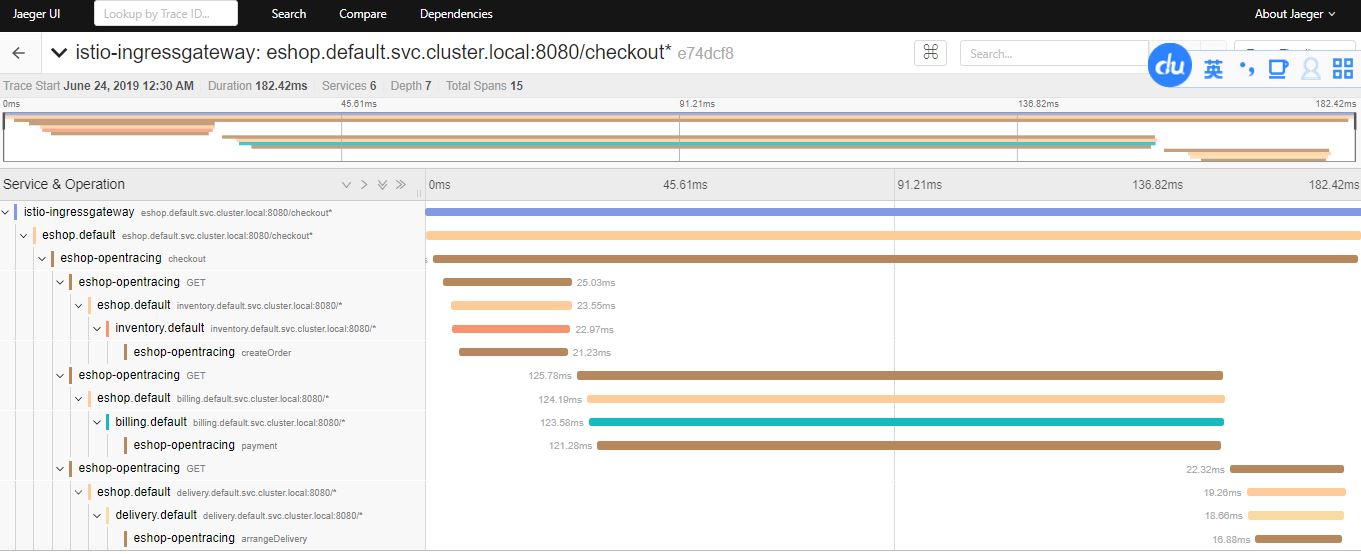
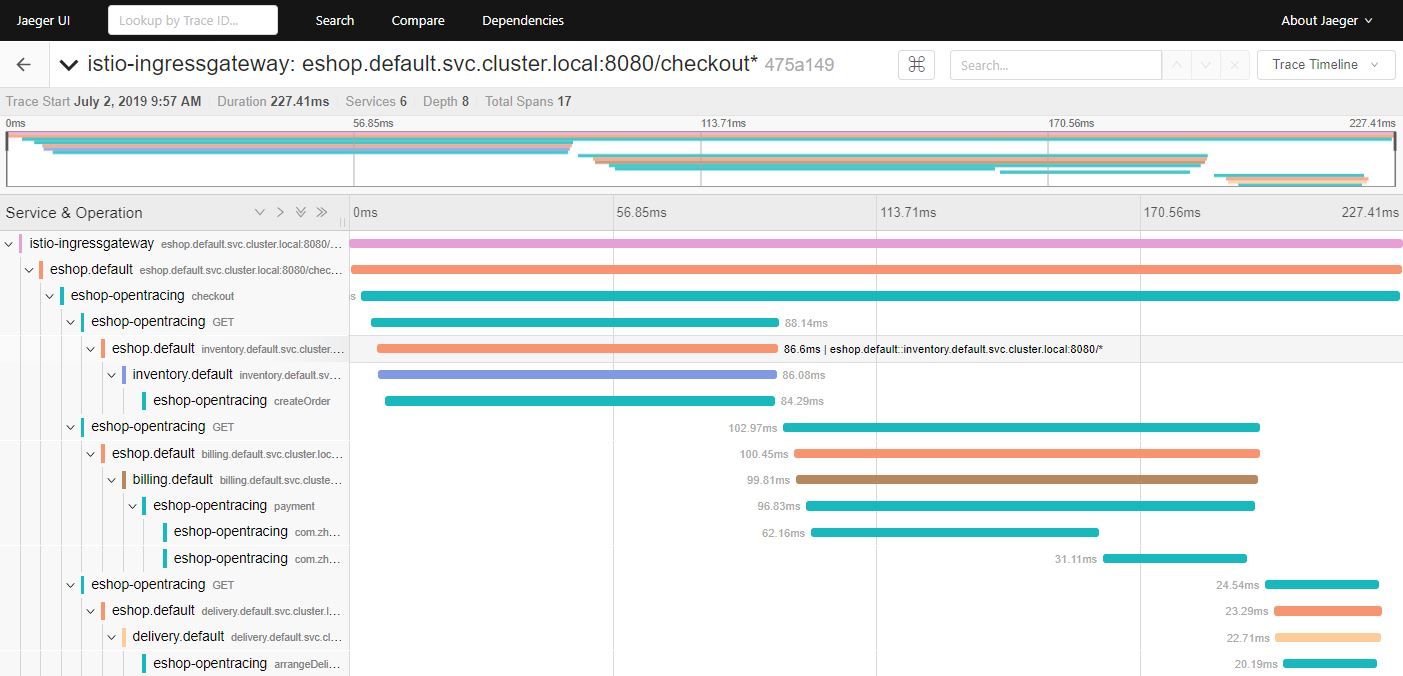
add kafka tracing to README

diff --git a/README.md b/README.md
@@ -47,11 +47,16 @@ Note: In order to access jaeger UI, you need to modify the default jaeger servic
 * Source code: branch master
 ![](https://raw.githubusercontent.com/zhaohuabing/istio-opentracing-demo/master/screenshot/istio-tracing-opentracing-in-depth.jpg)
 
+### Add kafka trace span to Istio/Envoy generated trace
+* Source code: branch kafka-tracking
+![](https://raw.githubusercontent.com/zhaohuabing/istio-opentracing-demo/master/screenshot/istio-tracing-opentracing-kafka.jpg)
+
 ### Understanding what happened under the hood
 * The eshop demo uses opentracing and jaeger for distributed tracing instrumentation. All the REST calls are automatically traced by opentracing.
 * A 'Traced' AOP annotation is used for method-level tracing instrumentation.
 * Jaeger opentracing implementation handles the trace context propagation crossing process boundaries. So we don't have to explicitly copy the tracing headers from downstream requests to upstream requests.
 * Because Istio/Envoy uses b3 header for trace context propagation, so we need to specify the b3 header format in the environment variables when creating the jaeger tracer. The length of trace id must also be set to 128 bit in the environment variables to make it compatible with the trace id generated by Istio/Envoy.  The jaeger configuration  can be found in this file: https://github.com/zhaohuabing/istio-opentracing-demo/blob/master/k8s/eshop.yaml
+* A TracingKafka2RestTemplateInterceptor is used to propagate trace context from kafka headers to HTTP headers.
 
 
 
